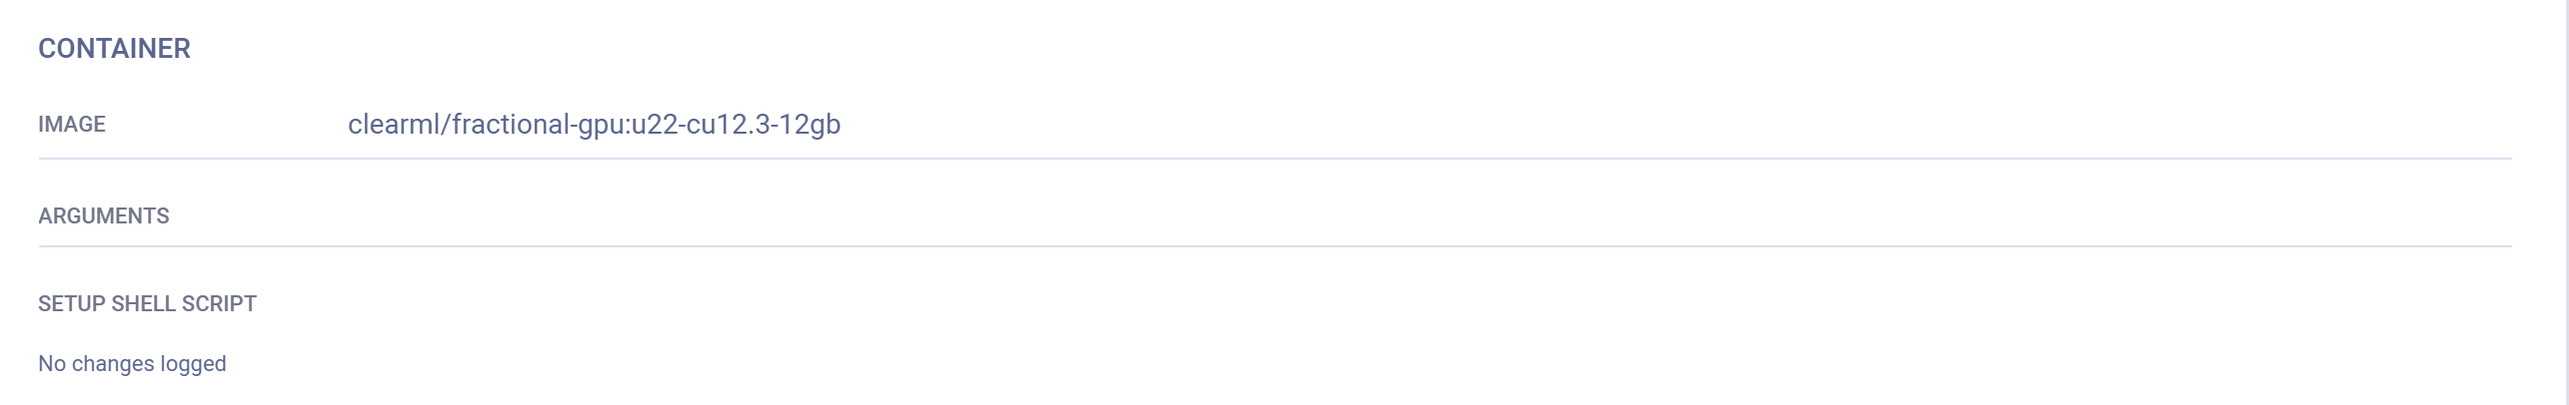
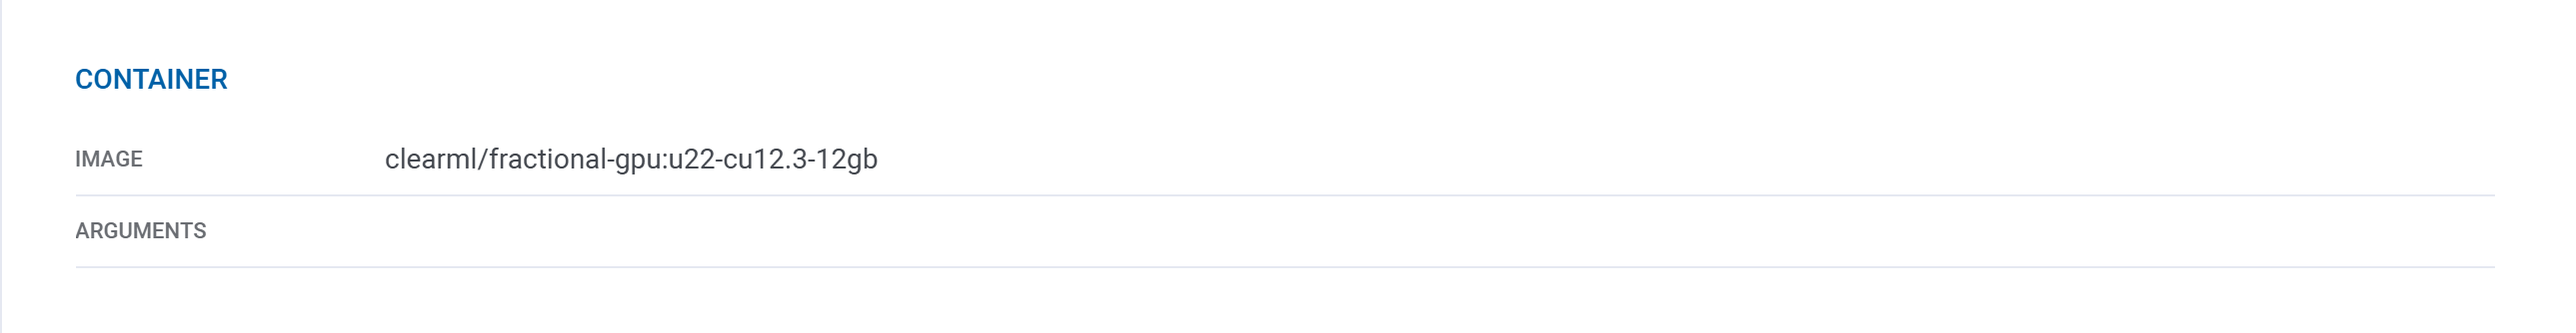
Update agent container images

diff --git a/docs/clearml_agent/clearml_agent_execution_env.md b/docs/clearml_agent/clearml_agent_execution_env.md
@@ -44,7 +44,10 @@ ClearML Agent uses the provided default Docker container, which can be overridde
 You can set the docker container via the UI: 
 1. Clone the experiment
 2. Set the Docker in the cloned task's **Execution** tab **> Container** section
-   ![Container section](../img/webapp_exp_container.png)
+
+   ![Container section](../img/webapp_exp_container.png#light-mode-only)
+   ![Container section](../img/webapp_exp_container_dark.png#dark-mode-only)
+
 3. Enqueue the cloned task
 
 The task will be executed in the container specified in the UI.

diff --git a/docs/clearml_agent/clearml_agent_fractional_gpus.md b/docs/clearml_agent/clearml_agent_fractional_gpus.md
@@ -273,7 +273,8 @@ The agent’s default container can be overridden via the UI:
 1. Clone the task
 1. Set the Docker in the cloned task's **Execution** tab > **Container** section
    
-   ![Task container](../img/fractional_gpu_task_container.png)
+   ![Task container](../img/fractional_gpu_task_container.png#light-mode-only)
+   ![Task container](../img/fractional_gpu_task_container_dark.png#dark-mode-only)
 
 1. Enqueue the cloned task
 
